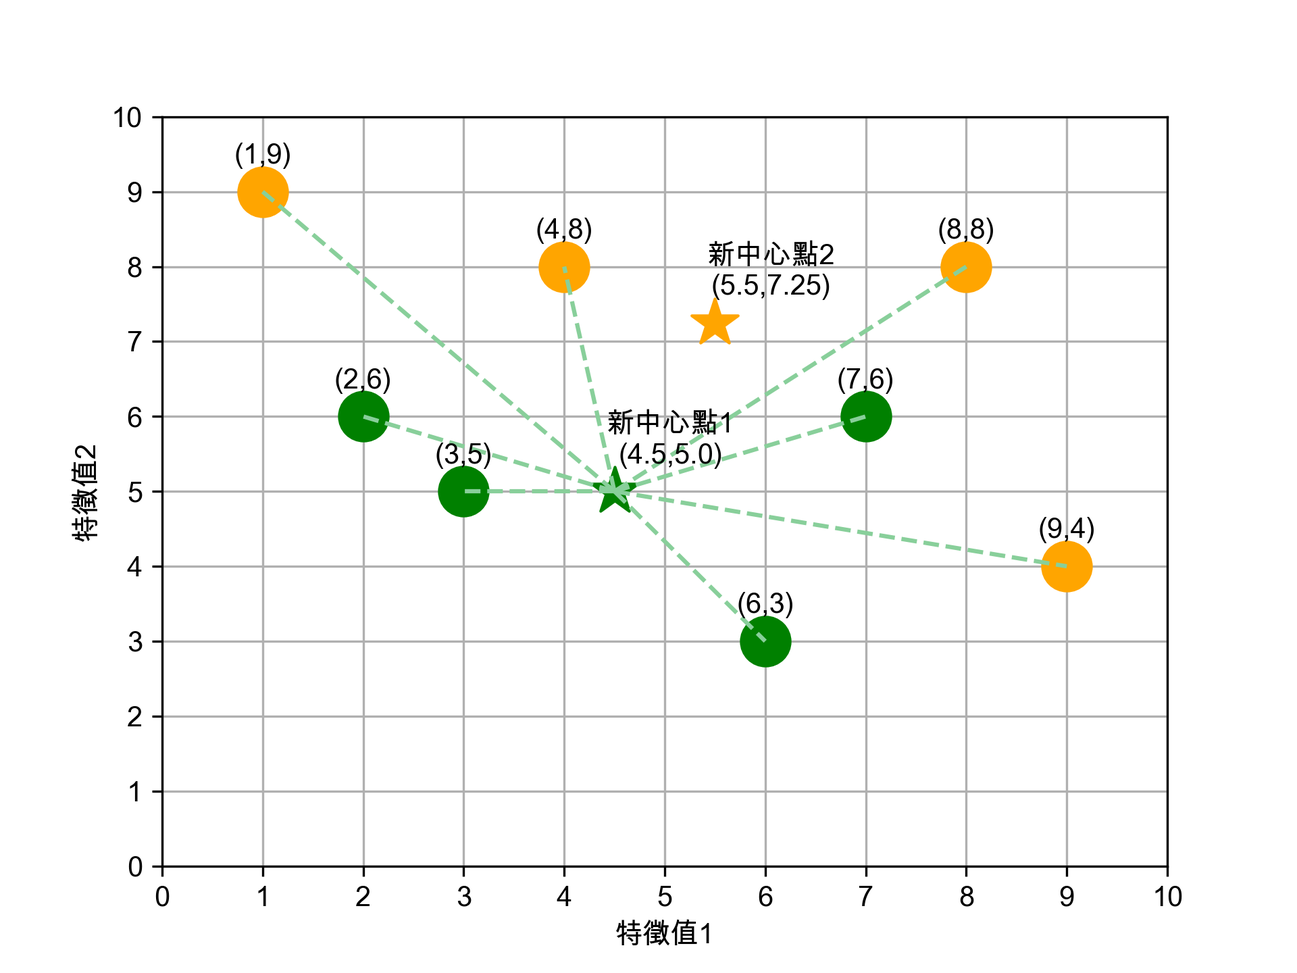
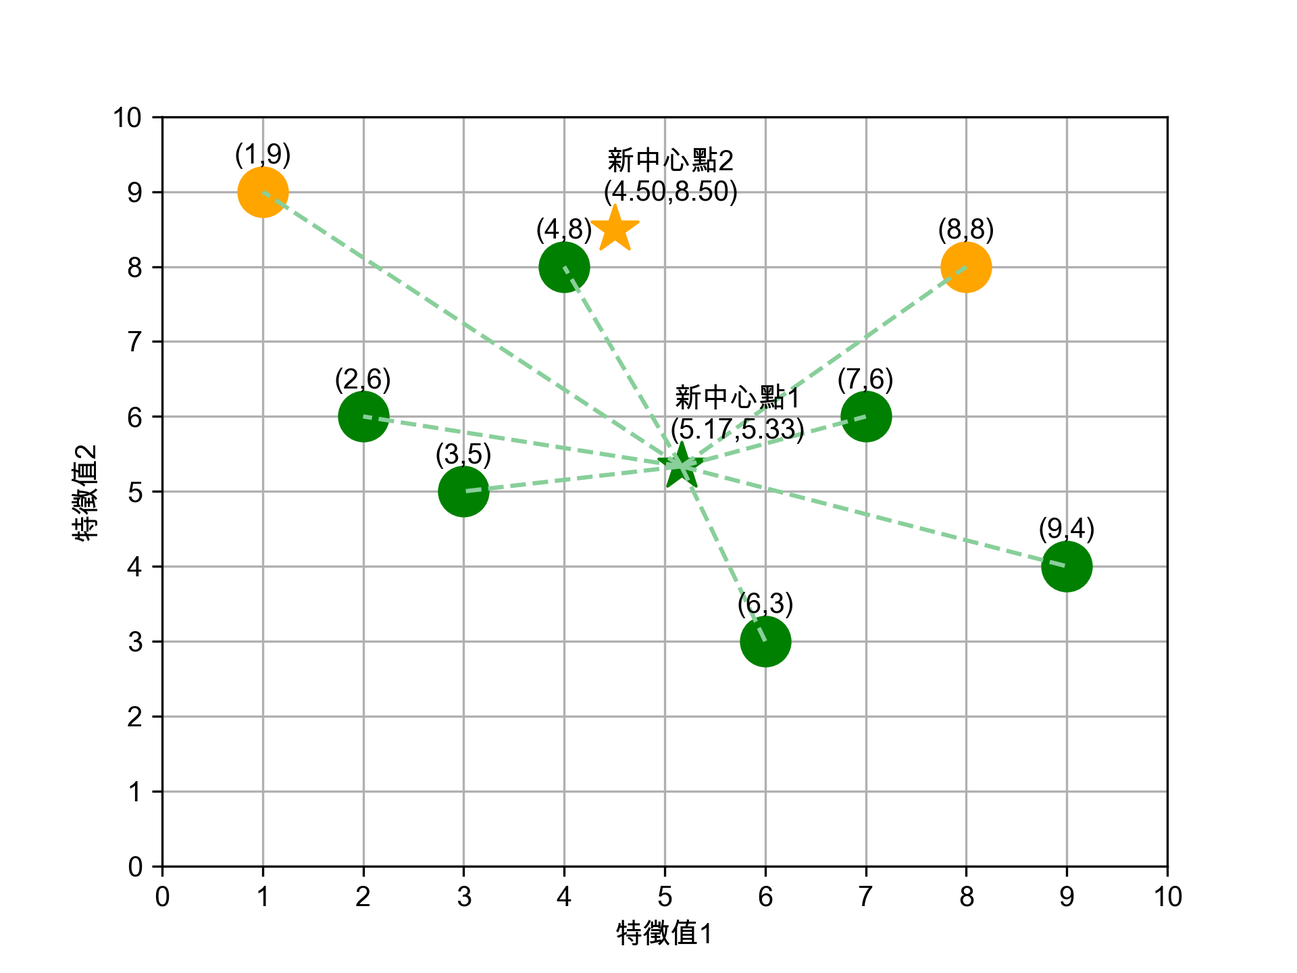
FINAL

diff --git a/教科書審查修訂.html b/教科書審查修訂.html
@@ -3,7 +3,7 @@
 "http://www.w3.org/TR/xhtml1/DTD/xhtml1-strict.dtd">
 <html xmlns="http://www.w3.org/1999/xhtml" lang="en" xml:lang="en">
 <head>
-<!-- 2022-11-13 Sun 15:30 -->
+<!-- 2022-11-22 Tue 20:22 -->
 <meta http-equiv="Content-Type" content="text/html;charset=utf-8" />
 <meta name="viewport" content="width=device-width, initial-scale=1" />
 <title>國家教育研究院教科書審查意見表</title>
@@ -193,193 +193,194 @@
     { background-color: #ffff00; color: #000000; font-weight: bold; }
   .org-svg { }
 </style>
-<link rel="stylesheet" type="text/css" href="../css/white.css" />
+<link rel="stylesheet" type="text/css" href="../css/muse.css" />
 </head>
 <body>
 <div id="content" class="content">
 <h1 class="title">國家教育研究院教科書審查意見表</h1>
-<div id="outline-container-org66b6f8a" class="outline-2">
-<h2 id="org66b6f8a"><span class="section-number-2">1.</span> 參考資料</h2>
+<div id="outline-container-org9f7b920" class="outline-2">
+<h2 id="org9f7b920"><span class="section-number-2">1.</span> 參考資料</h2>
 <div class="outline-text-2" id="text-1">
 <ul class="org-ul">
 <li><a href="https://www.youtube.com/watch?v=7J7X7aZvMXQ">How do Computers Work? Exploring Computer Main Memory</a><br /></li>
 <li><a href="https://www.youtube.com/watch?v=piF6D6CQxUw">How are memories stored in neural networks? | The Hopfield Network #SoME2 </a><br /></li>
 <li><a href="https://www.gigabyte.com/tw/Glossary/gpu">GPU介紹 </a><br /></li>
+<li><a href="https://www.youtube.com/watch?v=AZnGRKFUU0c">threading v.s. multiprocessing</a><br /></li>
 </ul>
 </div>
 </div>
 
-<div id="outline-container-org85b7bf4" class="outline-2">
-<h2 id="org85b7bf4"><span class="section-number-2">2.</span> 一般基準/文本內容</h2>
+<div id="outline-container-org3485793" class="outline-2">
+<h2 id="org3485793"><span class="section-number-2">2.</span> 一般基準/文本內容</h2>
 <div class="outline-text-2" id="text-2">
 </div>
-<div id="outline-container-orgb697920" class="outline-3">
-<h3 id="orgb697920"><span class="section-number-3">2.1.</span> <span class="todo TODO">TODO</span> <code>[0/3]</code> 多處內容不完整，無法清楚呈現概念。教科書應能提供完整具脈絡的概念說明。例如：</h3>
+<div id="outline-container-org2e12233" class="outline-3">
+<h3 id="org2e12233"><span class="section-number-3">2.1.</span> <span class="todo TODO">TODO</span> <code>[3/3]</code> 多處內容不完整，無法清楚呈現概念。教科書應能提供完整具脈絡的概念說明。例如：</h3>
 <div class="outline-text-3" id="text-2-1">
 <ul class="org-ul">
 <li>3-4系統平台介紹元宇宙概念。但元宇宙蓋面甚廣，介紹稍嫌簡略。此外， p.150說明元宇宙的概念，其中並未說明區塊鏈，但p.151卻提到此專有名詞。<br /></li>
-<li class="off"><code>[&#xa0;]</code> 修訂：增加元宇宙內容介紹以及區塊鏈概念簡介<br /></li>
+<li class="on"><code>[X]</code> 修訂：增加元宇宙內容介紹以及區塊鏈概念簡介<br /></li>
 <li>部分章節涵蓋許多較為進階的概念，但並未適切說明。例如，p.137介紹OS記憶體管理、VM與page fault等概念，但僅有一頁內容，學生是否能由該頁內容理解frame與page的定義？page fault產生的各種可能？記憶體置換的多種策略？<br /></li>
-<li class="off"><code>[&#xa0;]</code> 修訂：增加VM，page, frame的說明<br /></li>
+<li class="on"><code>[X]</code> 修訂：增加VM，page, frame的說明<br /></li>
 <li>第四章中巨量資料及資料探勘的處理流程及方法相似，建議適當釐清或整併連結。<br /></li>
-<li class="off"><code>[&#xa0;]</code> 修訂：簡化資料探勘的流程說明，<br /></li>
+<li class="on"><code>[X]</code> 修訂：簡化資料探勘的流程說明，<br /></li>
 </ul>
 </div>
 </div>
 </div>
 
-<div id="outline-container-org6876c28" class="outline-2">
-<h2 id="org6876c28"><span class="section-number-2">3.</span> <span class="todo TODO">TODO</span> <code>[0/3]</code> 一般基準/教學活動設計</h2>
+<div id="outline-container-org949e207" class="outline-2">
+<h2 id="org949e207"><span class="section-number-2">3.</span> <span class="todo TODO">TODO</span> <code>[2/3]</code> 一般基準/教學活動設計</h2>
 <div class="outline-text-2" id="text-3">
 <ul class="org-ul">
 <li>部分內容偏向細瑣的知識陳述，宜加入思考與問題解決之學習活動，以培養學生運算思維。例如：第三章系統平台的內容。<br /></li>
-<li class="off"><code>[&#xa0;]</code> 修訂：加入問題解決學習活動<br /></li>
+<li class="on"><code>[X]</code> 修訂：加入問題解決學習活動<br /></li>
 <li>本書多章練習題皆在檢測學生記憶性知識，無法提供學生思考與問題解決的機會。例如：許多題目為專有名詞解釋或數位工具名稱的單選題。<br /></li>
-<li class="off"><code>[&#xa0;]</code> 修訂：加入問題解決式試題<br /></li>
+<li class="on"><code>[X]</code> 修訂：加入問題解決式試題<br /></li>
 <li>第四章資料表示、處理及分析無實作設計，無法引導學生思考資料處理與分析的目的、策略與方法。<br /></li>
-<li class="off"><code>[&#xa0;]</code> 修訂：將原本移至教師手冊的實作範例移至課文中<br /></li>
+<li class="off"><code>[&#xa0;]</code> 修訂：將原本移至教師手冊的實作範例移至課文中-&gt;可能超過頁數<br /></li>
 </ul>
 </div>
 </div>
 
-<div id="outline-container-orge74bdc1" class="outline-2">
-<h2 id="orge74bdc1"><span class="section-number-2">4.</span> <span class="todo TODO">TODO</span> <code>[0/2]</code> 一般基準/圖文表達</h2>
+<div id="outline-container-org7fd085c" class="outline-2">
+<h2 id="org7fd085c"><span class="section-number-2">4.</span> <span class="todo TODO">TODO</span> <code>[2/2]</code> 一般基準/圖文表達</h2>
 <div class="outline-text-2" id="text-4">
 <ul class="org-ul">
 <li>本書多處內容文句或邏輯不通順，應詳加校訂並潤飾。<br /></li>
 <li>本書常整段文章，只有最後一個句號，其餘都是逗號，影響閱讀。如：p108；p.110；p.189第一段；p.211第一段全段11個逗號，一個句號；p.217第一段；p.220第一段；p.255第六章兩段前言；p.257正確性段落等；宜全書檢視修正。<br /></li>
-<li class="off"><code>[&#xa0;]</code> 修訂：重新順稿<br /></li>
+<li class="on"><code>[X]</code> 修訂：重新順稿<br /></li>
 <li>本書多處圖片未於內文有適切的引用或文字對應說明。<br /></li>
-<li class="off"><code>[&#xa0;]</code> 修訂：檢視所有圖片<br /></li>
+<li class="on"><code>[X]</code> 修訂：檢視所有圖片<br /></li>
 </ul>
 </div>
 </div>
 
-<div id="outline-container-org2e2a6da" class="outline-2">
-<h2 id="org2e2a6da"><span class="section-number-2">5.</span> <span class="todo TODO">TODO</span> <code>[0/1]</code> 一般基準/編寫體例</h2>
+<div id="outline-container-org561874b" class="outline-2">
+<h2 id="org561874b"><span class="section-number-2">5.</span> <span class="todo TODO">TODO</span> <code>[1/1]</code> 一般基準/編寫體例</h2>
 <div class="outline-text-2" id="text-5">
 <ul class="org-ul">
 <li>建議本書於書末加入圖表及中英文詞彙關鍵字索引，以利學生學習。<br /></li>
-<li class="off"><code>[&#xa0;]</code> 修訂: 依修訂建議<br /></li>
+<li class="on"><code>[X]</code> 修訂: 依修訂建議<br /></li>
 </ul>
 </div>
 </div>
 
-<div id="outline-container-org8d5fb23" class="outline-2">
-<h2 id="org8d5fb23"><span class="section-number-2">6.</span> 各章節問題</h2>
+<div id="outline-container-orgf584826" class="outline-2">
+<h2 id="orgf584826"><span class="section-number-2">6.</span> 各章節問題</h2>
 <div class="outline-text-2" id="text-6">
 </div>
-<div id="outline-container-org1f307f2" class="outline-3">
-<h3 id="org1f307f2"><span class="section-number-3">6.1.</span> <span class="todo TODO">TODO</span> <code>[0/4]</code> 第三章 系統平台</h3>
+<div id="outline-container-orgdadec32" class="outline-3">
+<h3 id="orgdadec32"><span class="section-number-3">6.1.</span> <span class="todo TODO">TODO</span> <code>[4/4]</code> 第三章 系統平台</h3>
 <div class="outline-text-3" id="text-6-1">
 <ul class="org-ul">
 <li>部份內容以學生未學過的知識作為例子。如：p.120學生知道何為COBOL或是FORTRAN嗎？<br /></li>
-<li class="off"><code>[&#xa0;]</code> 修訂: 加註COBOL/FORTRAN介紹，此例中若以其他學生熟知的語言(C/C++)替代並不合理<br /></li>
+<li class="on"><code>[X]</code> 修訂: 加註COBOL/FORTRAN介紹，此例中若以其他學生熟知的語言(C/C++)替代並不合理<br /></li>
 <li>部份內容以學生未知之專有名詞進行說明。如：p.113 Cache L1~L3、Northbridge、p.129 BIOS與CMOS。<br /></li>
-<li class="off"><code>[&#xa0;]</code> 修訂：簡化p113圖片，將BIOS與CMOS加入名詞解釋<br /></li>
+<li class="on"><code>[X]</code> 修訂：簡化p113圖片，將BIOS與CMOS加入名詞解釋<br /></li>
 <li>部分內容涵蓋進階的概念，但並未適切說明，如p.137 OS記憶體管理、VM與page fault等。<br /></li>
-<li class="off"><code>[&#xa0;]</code> 修訂：增加VM，page, frame的說明<br /></li>
+<li class="on"><code>[X]</code> 修訂：重寫<br /></li>
 <li>內容多為知識陳述，無法引導學生思考系統平台的演進脈絡及運作原理。宜提供學生思考、應用、動手實作之機會，以培養學生運算思維與問題解決。例如：引導學生觀察自己電腦正在執行的行程與資源的使用狀況。<br /></li>
-<li class="off"><code>[&#xa0;]</code> 修訂：加入問題解決式試題及範例(觀察記憶體與CPU使用情形，解決問題)<br /></li>
+<li class="on"><code>[X]</code> 修訂：加入問題解決式試題及範例(觀察記憶體與CPU使用情形，解決問題)<br /></li>
 </ul>
 </div>
 </div>
-<div id="outline-container-org8ba71c4" class="outline-3">
-<h3 id="org8ba71c4"><span class="section-number-3">6.2.</span> <span class="todo TODO">TODO</span> <code>[0/5]</code> 第四章 資料表示、處理及分析</h3>
+<div id="outline-container-orgd345ffa" class="outline-3">
+<h3 id="orgd345ffa"><span class="section-number-3">6.2.</span> <span class="todo TODO">TODO</span> <code>[5/5]</code> 第四章 資料表示、處理及分析</h3>
 <div class="outline-text-3" id="text-6-2">
 <ul class="org-ul">
 <li>部分內容有誤且不一致，宜全面檢視修正。例如：5V理論，p.161、p.163與圖4-1三處並不一致。<br /></li>
-<li class="off"><code>[&#xa0;]</code> 修訂:相關用語改為一致化<br /></li>
+<li class="on"><code>[X]</code> 修訂:相關用語改為一致化<br /></li>
 <li>部分專有名詞第一次出現時未解釋。例如：p.171協作式過濾（Collaborative Filtering, CF），p.180圖中CNN, RNN, DNN，p.184決策樹，p.252邏輯迴歸、k-近鄰演算法等專有名詞。<br /></li>
-<li class="off"><code>[&#xa0;]</code> 修訂: 加入名詞解釋<br /></li>
+<li class="on"><code>[X]</code> 修訂: 加入名詞解釋<br /></li>
 <li>多處內容流於知識陳述，無法引導學生思考資料處理與分析的目的、策略與方法。<br /></li>
-<li class="off"><code>[&#xa0;]</code> 修訂: 歸納資料處理分析的流程、說明如何面對、處理新資枓<br /></li>
+<li class="on"><code>[X]</code> 修訂: 歸納資料處理分析的流程、說明如何面對、處理新資枓<br /></li>
 <li>巨量資料及資料探勘的處理流程及方法說明相似，建議適當釐清或整併連結。<br /></li>
-<li class="off"><code>[&#xa0;]</code> 修訂：簡化資料探勘的流程說明，<br /></li>
+<li class="on"><code>[X]</code> 修訂：簡化資料探勘的流程說明，<br /></li>
 <li>多處內容文意不清或內容不適當，例如p.183：<br /></li>
 <li>「已經有部分的分析依據，所以其效果較非監督式學習好。」：與非監督式學習相較，半監督式學習可以得到什麼比較好的效果？為什麼？<br /></li>
 <li>「我們以為Gmail很好心的提供給我們…其實是Google利用我們當免費勞工…」：說明是否合適？<br /></li>
 <li>「半監督式學習一方面解決了這個問題，…也可提供較非監督式學習準確的預測能力。」：半監督式學習有完整解決問題嗎？又為何與非監督式學習比較預測能力？<br /></li>
-<li class="off"><code>[&#xa0;]</code> 修訂：重新順稿<br /></li>
+<li class="on"><code>[X]</code> 修訂：重新順稿<br /></li>
 </ul>
 </div>
 </div>
 </div>
 
-<div id="outline-container-org032498e" class="outline-2">
-<h2 id="org032498e"><span class="section-number-2">7.</span> <span class="todo TODO">TODO</span> <code>[0/42]</code> 依頁數建議細部修訂</h2>
+<div id="outline-container-org4433c8e" class="outline-2">
+<h2 id="org4433c8e"><span class="section-number-2">7.</span> <span class="todo TODO">TODO</span> <code>[41/42]</code> 依頁數建議細部修訂</h2>
 <div class="outline-text-2" id="text-7">
 <ul class="org-ul">
 <li>P.107: 文句不通順，邏輯不清。<br /></li>
-<li class="off"><code>[&#xa0;]</code> 修訂：重新順稿<br /></li>
+<li class="on"><code>[X]</code> 修訂：重新順稿<br /></li>
 <li>P.108 <i>2</i>: 何謂系統平台的濫觴？<br /></li>
-<li class="off"><code>[&#xa0;]</code> 修訂：濫觴為起源/開端之意，為免爭議，可以改為 系統平台的起源<br /></li>
+<li class="on"><code>[X]</code> 修訂：濫觴為起源/開端之意，為免爭議，可以改為 系統平台的起源<br /></li>
 <li>P.108 <i>-1,-2</i>: 「石器時代…極無效率」：應避免主觀、武斷的說法。<br /></li>
-<li class="off"><code>[&#xa0;]</code> 修訂：依建議修正<br /></li>
+<li class="on"><code>[X]</code> 修訂：依建議修正<br /></li>
 <li>P.108-127: 內容多為細瑣的背誦性知識，未能引導學生思考系統平台的發展脈絡。<br /></li>
-<li class="off"><code>[&#xa0;]</code> 修訂：加入問題解決式試題及範例(觀察記憶體與CPU使用情形，解決問題)<br /></li>
+<li class="on"><code>[X]</code> 修訂：強調發展脈絡、加入問題解決式試題及範例(觀察記憶體與CPU使用情形，解決問題)<br /></li>
 <li>P.110 <i>1</i>: 上段僅剩9字 列於本頁，建議整併至上頁。<br /></li>
-<li class="off"><code>[&#xa0;]</code> 修訂：依建議修正<br /></li>
+<li class="on"><code>[X]</code> 修訂：依建議修正<br /></li>
 <li>P.110 <i>3</i>: 「如前節所述，系統平台包含電腦硬體與作業系統…&#x2026;」：前節何處提到作業系統？<br /></li>
-<li class="off"><code>[&#xa0;]</code> 修訂：重新順稿<br /></li>
+<li class="on"><code>[X]</code> 修訂：重新順稿<br /></li>
 <li>P.110 <i>14</i>: 何謂「批次」？於p.120才有較詳細之解說。<br /></li>
-<li class="off"><code>[&#xa0;]</code> 修訂：重新順稿<br /></li>
+<li class="on"><code>[X]</code> 修訂：重新順稿<br /></li>
 <li>P.111 <i>圖3-6</i>: 此圖並無法清楚說明指令集架構。<br /></li>
-<li class="off"><code>[&#xa0;]</code> 修訂: 重新畫圖<br /></li>
+<li class="on"><code>[X]</code> 修訂: 重新畫圖<br /></li>
 <li>P.113 <i>圖3-9</i>: 本圖有太多未說明之英文專有名詞，如cache L1~L3、northbridge、Hyper…..<br /></li>
-<li class="off"><code>[&#xa0;]</code> 修訂：簡化p113圖片，將BIOS與CMOS加入名詞解釋<br /></li>
+<li class="on"><code>[X]</code> 修訂：重畫p113圖片<br /></li>
 <li>P.114/1-7/: 說明不清楚。運算工作分別丟給兩個核心，是指兩個指令分別給兩個核心運算嗎？應說明何謂「一個工作」。<br /></li>
-<li class="off"><code>[&#xa0;]</code> 修訂：重新順稿<br /></li>
+<li class="on"><code>[X]</code> 修訂：重新順稿<br /></li>
 <li>P.115 <i>3</i>: GPU俗稱顯示卡？<br /></li>
-<li class="off"><code>[&#xa0;]</code> 修訂: 重新順稿，改為「圖形處理器」。<br /></li>
+<li class="on"><code>[X]</code> 修訂: 刪除<br /></li>
 <li>P.115 <i>圖3-12</i>: 學生看這個圖就能明瞭CPU與GPU的差異嗎？<br /></li>
-<li class="off"><code>[&#xa0;]</code> 修訂：補充差異<br /></li>
+<li class="on"><code>[X]</code> 修訂：補充差異<br /></li>
 <li>P.120 <i>圖3-21</i>: 以學生未學過的知識作為例子。學生知道COBOL、FORTRAN嗎？<br /></li>
-<li class="off"><code>[&#xa0;]</code> 修訂: 加註COBOL/FORTRAN介紹，此例中若以其他學生熟知的語言(C/C++)替代並不合理<br /></li>
+<li class="on"><code>[X]</code> 修訂: 加註COBOL/FORTRAN介紹，此例中若以其他學生熟知的語言(C/C++)替代並不合理<br /></li>
 <li>P.128 <i>圖3-36</i>: 本圖看不出使用者、應用程式、作業系統、硬體間之「關係」。<br /></li>
-<li class="off"><code>[&#xa0;]</code> 修訂: 重新畫圖<br /></li>
+<li class="on"><code>[X]</code> 修訂: 重新畫圖<br /></li>
 <li>P.129 <i>7</i>: 何謂BIOS？何謂CMOS？<br /></li>
-<li class="off"><code>[&#xa0;]</code> 修訂：簡化p113圖片，將BIOS與CMOS加入名詞解釋<br /></li>
+<li class="on"><code>[X]</code> 修訂：簡化p113圖片，將BIOS與CMOS加入名詞解釋<br /></li>
 <li>P.132 <i>圖</i>: 行程狀態是否為重要概念？<br /></li>
-<li class="off"><code>[&#xa0;]</code> 修訂: 比對其他版本教科書，評估是否移除此概念<br /></li>
+<li class="on"><code>[X]</code> 修訂: 比對其他版本教科書後，決定依建議刪除此概念<br /></li>
 <li>P.133 <i>I百科</i>: Long-term scheduler等是重要概念嗎？<br /></li>
-<li class="off"><code>[&#xa0;]</code> 修訂: 比對其他版本教科書，評估是否移除此概念<br /></li>
+<li class="on"><code>[X]</code> 修訂: 刪除<br /></li>
 <li>P.134-136 <i>圖</i>: 宜避免中英夾雜。<br /></li>
-<li class="off"><code>[&#xa0;]</code> 修訂: 重新順稿<br /></li>
+<li class="on"><code>[X]</code> 修訂: 重新順稿<br /></li>
 <li>P.139 <i>圖</i>: 內文之說明不夠清楚。何處是實體記憶體？何處是交換空間？分頁表在何處？何處有連續的記憶體空間？<br /></li>
-<li class="off"><code>[&#xa0;]</code> 修訂: 補充說明圖文對照<br /></li>
+<li class="on"><code>[X]</code> 修訂: 重寫<br /></li>
 <li>P.141,144 <i>圖</i>: 未於內文提供清楚的對照說明。<br /></li>
-<li class="off"><code>[&#xa0;]</code> 修訂: 補充說明圖文對照<br /></li>
+<li class="on"><code>[X]</code> 修訂: 不予理會<br /></li>
 <li>P.151 <i>-3</i>: 本處提到區塊鏈但未說明。<br /></li>
-<li class="off"><code>[&#xa0;]</code> 修訂：增加元宇宙內容介紹以及區塊鏈概念簡介<br /></li>
+<li class="on"><code>[X]</code> 修訂：增加元宇宙內容介紹以及區塊鏈概念簡介<br /></li>
 <li>P.152-155: 題目多在檢驗學生記憶性知識，無法引導學生思考與問題解決。<br /></li>
-<li class="off"><code>[&#xa0;]</code> 修訂：加入問題解決式、引導式內容<br /></li>
+<li class="on"><code>[X]</code> 修訂：加入問題解決式、引導式內容<br /></li>
 <li>P.161 <i>-1</i>: 「變化性（Variability）」：內文中的5V包含變化性(Variability)，與圖4-1的5V包含Veracity，資料存在真實性問題，不一致。<br /></li>
-<li class="off"><code>[&#xa0;]</code> 修訂: 統一用詞<br /></li>
+<li class="on"><code>[X]</code> 修訂: 統一用詞<br /></li>
 <li>P.163 <i>-10</i>: 標題為Veracity，5V到底包含哪五V，請統一。<br /></li>
-<li class="off"><code>[&#xa0;]</code> 修訂: 統一用詞<br /></li>
+<li class="on"><code>[X]</code> 修訂: 統一用詞<br /></li>
 <li>P.164 <i>11</i>: 「資料又…在新增」：文句不通順。<br /></li>
-<li class="off"><code>[&#xa0;]</code> 修訂: 重新順稿<br /></li>
+<li class="on"><code>[X]</code> 修訂: 重新順稿<br /></li>
 <li>P.171 <i>-13</i>: 協作式過濾（Collaborative Filtering, CF）：其意涵？學生恐難理解。<br /></li>
-<li class="off"><code>[&#xa0;]</code> 修訂: 補充說明CF<br /></li>
+<li class="on"><code>[X]</code> 修訂: 補充說明CF<br /></li>
 <li>P.171 <i>2</i>: 「實際上…不遙遠」：文句不通順。<br /></li>
-<li class="off"><code>[&#xa0;]</code> 修訂: 重新順稿<br /></li>
+<li class="on"><code>[X]</code> 修訂: 重新順稿<br /></li>
 <li>P.172 <i>12</i>: 「美國加洲…」：錯別字。<br /></li>
-<li class="off"><code>[&#xa0;]</code> 修訂: 重新順稿<br /></li>
+<li class="on"><code>[X]</code> 修訂: 重新順稿<br /></li>
 <li>P.176 <i>-7</i>: 「如圖4-5的黑盒子」「如圖4-4的黑盒子」。<br /></li>
-<li class="off"><code>[&#xa0;]</code> 修訂: 依建議修正<br /></li>
+<li class="on"><code>[X]</code> 修訂: 依建議修正<br /></li>
 <li>P.180 <i>圖4-19</i>: 圖中的CNN, RNN, DNN專有名詞並無解釋。<br /></li>
-<li class="off"><code>[&#xa0;]</code> 修訂:<br /></li>
+<li class="on"><code>[X]</code> 修訂:<br /></li>
 <li>P.180 <i>-2</i>: 「…Hinton 與兩立學生成立的….」&#x2013;&gt;兩位。<br /></li>
-<li class="off"><code>[&#xa0;]</code> 修訂: 依建議修正<br /></li>
+<li class="on"><code>[X]</code> 修訂: 依建議修正<br /></li>
 <li>P.184 <i>3</i>: 決策樹：其意涵？學生恐難理解。<br /></li>
-<li class="off"><code>[&#xa0;]</code> 修訂:<br /></li>
+<li class="off"><code>[&#xa0;]</code> 修訂: 不予理會<br /></li>
 <li>P.184 <i>3</i>: 「本節以辨貓/狗為例….」&#x2013;&gt;「本節以分辨貓/狗為例….」。<br /></li>
-<li class="off"><code>[&#xa0;]</code> 修訂: 依建議修正<br /></li>
+<li class="on"><code>[X]</code> 修訂: 依建議修正<br /></li>
 <li>P.186 <i>3</i>: 「變的十分龐大」&#x2013;&gt;「變得十分龐大」。<br /></li>
-<li class="off"><code>[&#xa0;]</code> 修訂: 依建議修正<br /></li>
+<li class="on"><code>[X]</code> 修訂: 依建議修正<br /></li>
 <li>P.187 <i>-3</i> 重新計算k個中心點x 標題不精確。<br /></li>
-<li class="off"><code>[&#xa0;]</code> 修訂: 重新順稿<br /></li>
+<li class="on"><code>[X]</code> 修訂: 重新順稿<br /></li>
 <li>P.188 <i>1-4</i>: 此範例計算錯誤。<br />
 <ul class="org-ul">
 <li>P.188 <i>1</i>: 「新x值2+3+6+7/4=4.5 」&#x2013;&gt;「新x值2+3+4+6+7+9/6=…. 」。<br /></li>
@@ -387,25 +388,25 @@
 <li>P.188 <i>3</i>: 「新x值1+4+8+9/4=5.5 」&#x2013;&gt;「新x值1+8/2=…. 」。<br /></li>
 <li>P.188 <i>4</i>: 「新x值9+8+8+4/4=7.25 」&#x2013;&gt;「新x值9+8/2=…. 」。<br /></li>
 </ul></li>
-<li class="off"><code>[&#xa0;]</code> 修訂: 依建議修正<br /></li>
+<li class="on"><code>[X]</code> 修訂: 依建議修正<br /></li>
 <li>P.188 <i>圖4-26</i>: 要隨前面修正。<br /></li>
-<li class="off"><code>[&#xa0;]</code> 修訂: 依建議修正<br /></li>
+<li class="on"><code>[X]</code> 修訂: 依建議修正<br /></li>
 <li>P.188 <i>7</i>: 「….新中心點(4.5,5.0)、(5.5,7.25)」&#x2013;&gt;請計算正確後修正。<br /></li>
-<li class="off"><code>[&#xa0;]</code> 修訂: 依建議修正<br /></li>
+<li class="on"><code>[X]</code> 修訂: 依建議修正<br /></li>
 <li>P.189 <i>-8</i>: 「哪些種統計方法」：文詞不通順。<br /></li>
-<li class="off"><code>[&#xa0;]</code> 修訂: 重新順稿<br /></li>
+<li class="on"><code>[X]</code> 修訂: 重新順稿<br /></li>
 <li>P.190 <i>-7</i>: 「也是一種由結果導出原因的歸納過程」：文意不清，回歸方法可以由結果導出原因？<br /></li>
-<li class="off"><code>[&#xa0;]</code> 修訂: 重新順稿                       竹人<br /></li>
+<li class="on"><code>[X]</code> 修訂: 重新順稿                       竹人<br /></li>
 <li>P.193: 本章習題較多記憶題及測驗軟體工具，應增加引導學生思考或問題解決題目。<br /></li>
-<li class="off"><code>[&#xa0;]</code> 修訂:<br /></li>
+<li class="on"><code>[X]</code> 修訂:<br /></li>
 <li>P.198: 課堂練習2：第一題選用p.188第一輪分群結果繼續往下做第二輪，但p.188需整個改寫，請隨之更正。<br /></li>
-<li class="off"><code>[&#xa0;]</code> 修訂: 依建議修正<br /></li>
+<li class="on"><code>[X]</code> 修訂: 依建議修正<br /></li>
 </ul>
 </div>
 </div>
 
-<div id="outline-container-org4d53084" class="outline-2">
-<h2 id="org4d53084"><span class="section-number-2">8.</span> Resource</h2>
+<div id="outline-container-org344104c" class="outline-2">
+<h2 id="org344104c"><span class="section-number-2">8.</span> Resource</h2>
 <div class="outline-text-2" id="text-8">
 <ul class="org-ul">
 <li><a href="https://www.eventx.io/zh/blog/metaverse">元宇宙是什麼？一篇文帶你看懂它可能帶來的商機、應用，以及面臨的爭議與挑戰</a><br /></li>
@@ -415,7 +416,7 @@
 </div>
 <div id="postamble" class="status">
 <p class="author">Author: Yung Chin, Yen</p>
-<p class="date">Created: 2022-11-13 Sun 15:30</p>
+<p class="date">Created: 2022-11-22 Tue 20:22</p>
 </div>
 </body>
 </html>
